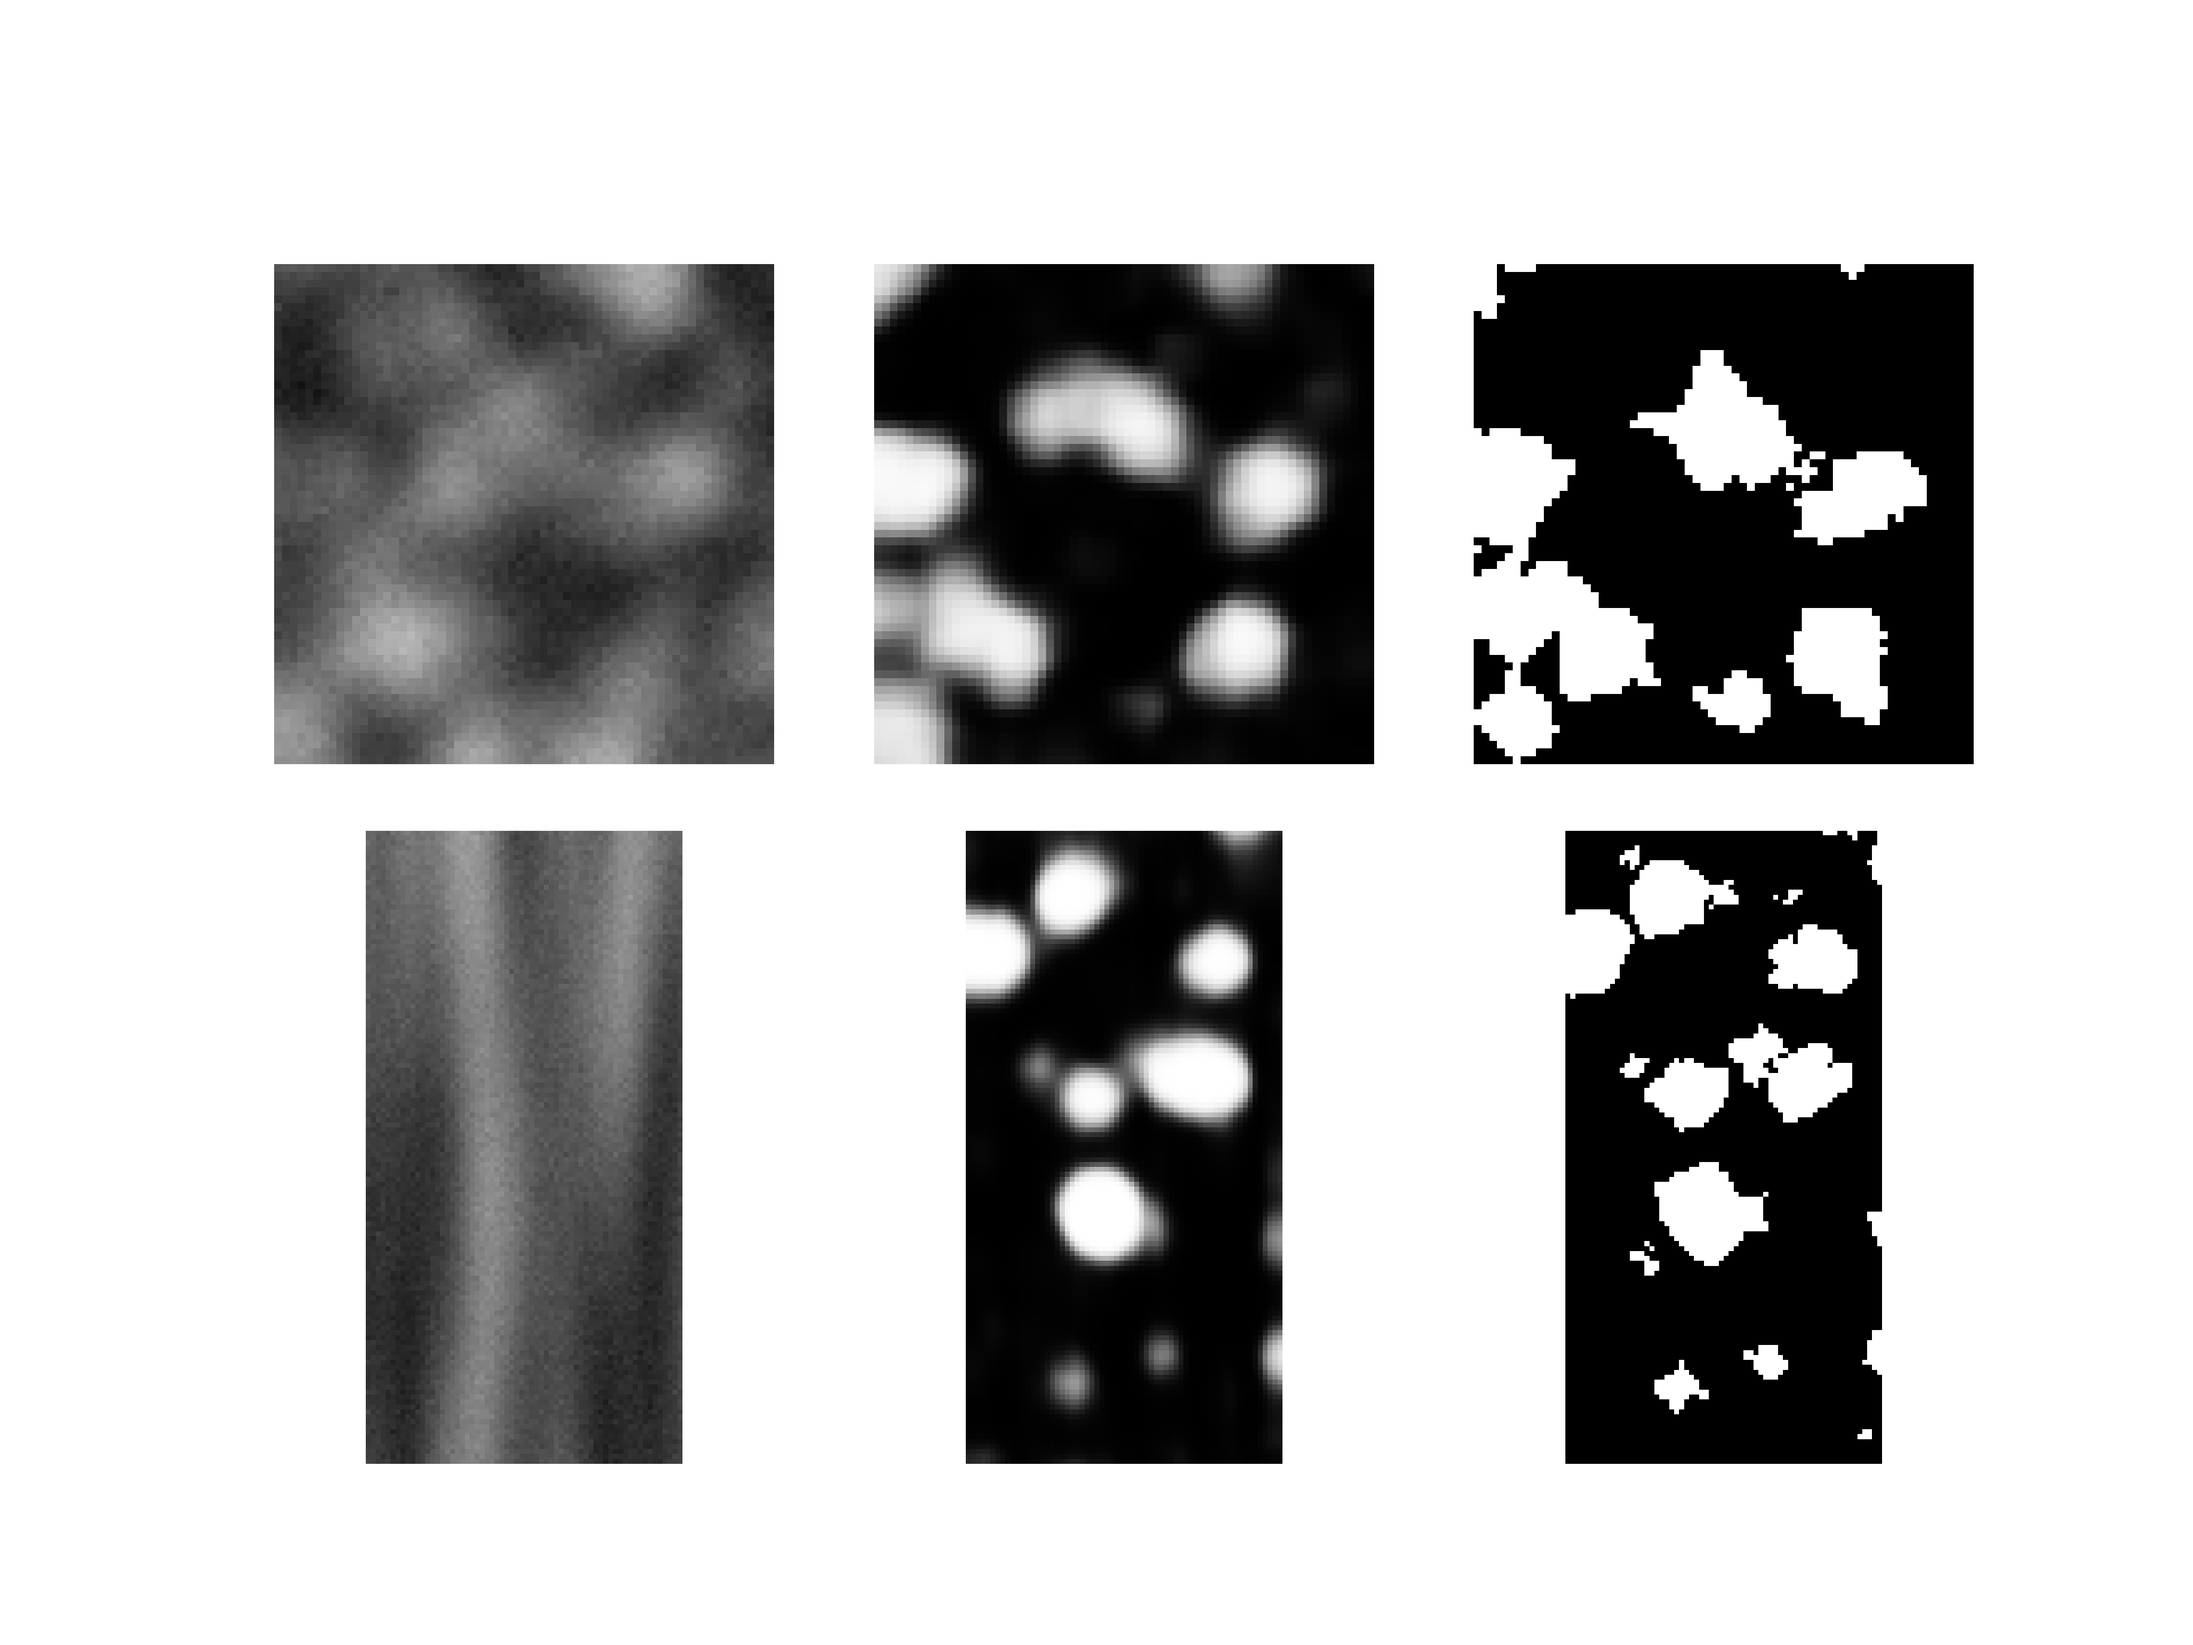
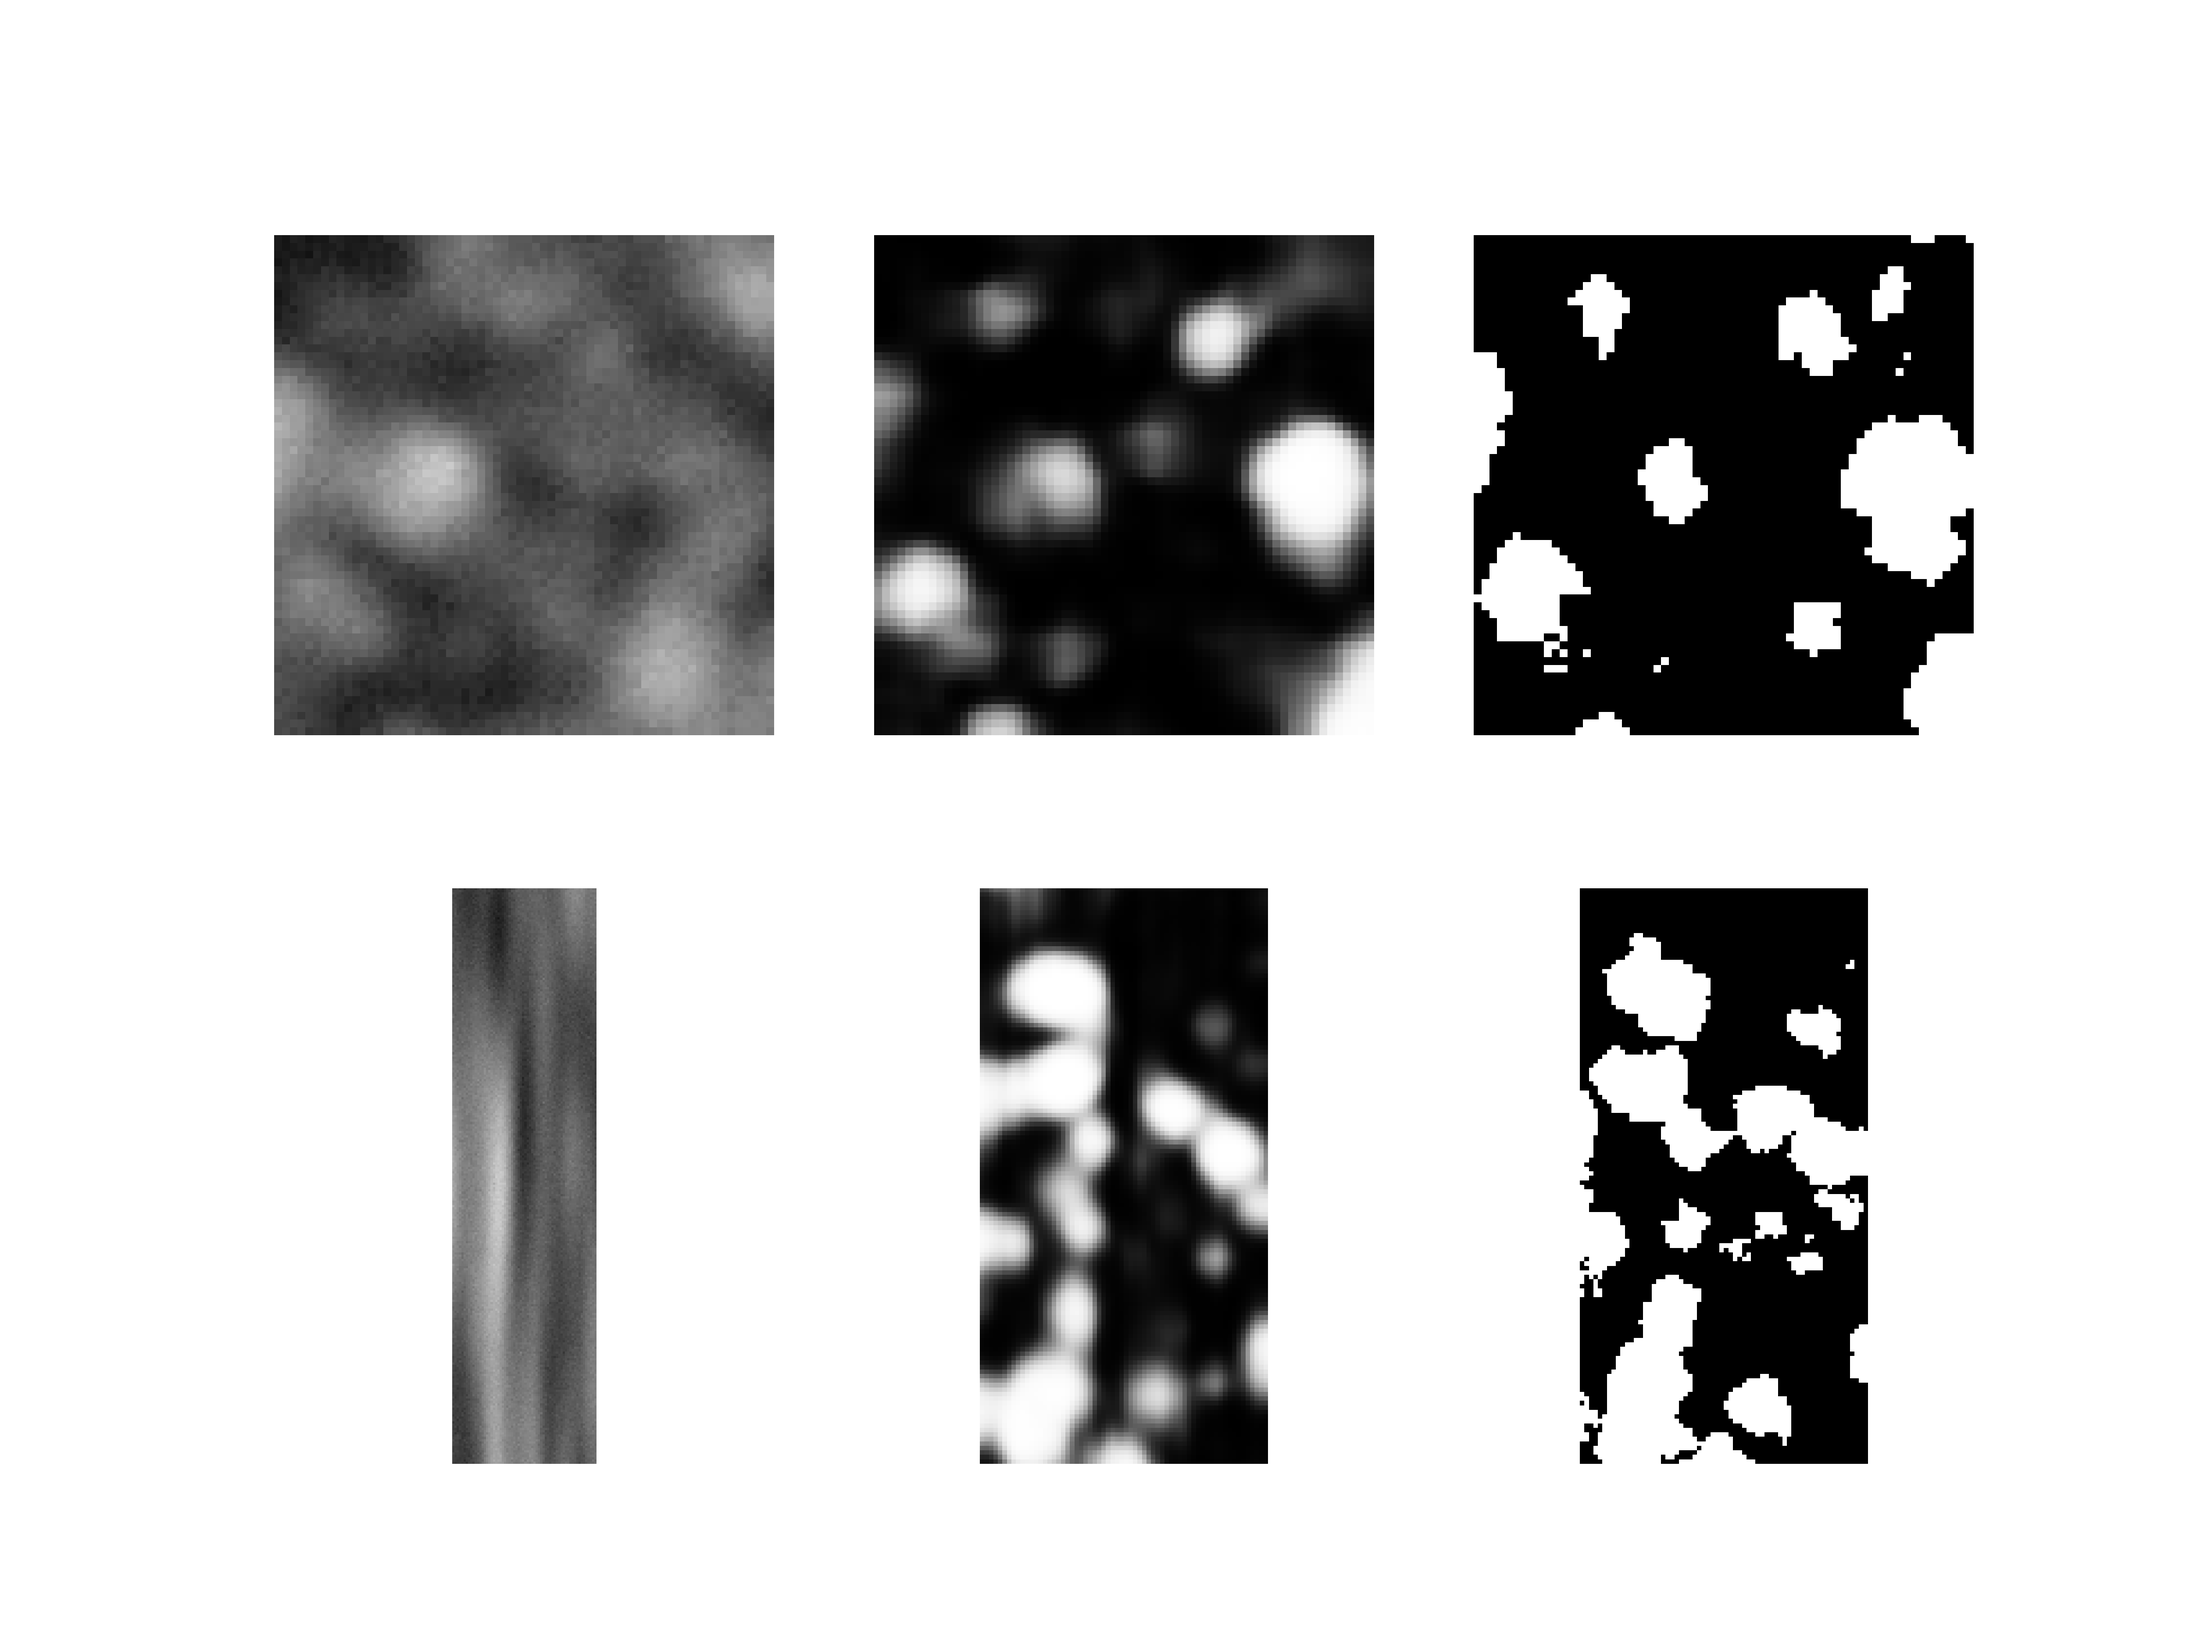
83 fig

diff --git a/inference.py b/inference.py
@@ -50,7 +50,7 @@ JNet = model.JNet(hidden_channels_list  = hidden_channels_list ,
                   superres              = False                ,
                   )
 JNet = JNet.to(device = device)
-j = 30
+j = 60
 i = 30
 scale = 1
 
@@ -80,7 +80,7 @@ for n in range(0,5):
                 cmap='gray', vmin=0.0, vmax=1.0, aspect=1)
         ax3.imshow(label[0, partial[0]+j, :, :].to(device='cpu'),
                 cmap='gray', vmin=0.0, vmax=1.0, aspect=1)
-        ax4.imshow(image[0, partial[0]:partial[1], i, :].to(device='cpu'),
+        ax4.imshow(image[0, :, i, :].to(device='cpu'),
                 cmap='gray', vmin=0.0, vmax=1.0, aspect=scale)
         ax5.imshow(output[0, 0, partial[0]:partial[1], i, :],
                 cmap='gray', vmin=0.0, vmax=1.0, aspect=1)
@@ -92,7 +92,7 @@ for n in range(0,5):
         ax2.imshow(output[0, 0, j, :, :],
                 cmap='gray', vmin=0.0, vmax=1.0, aspect=1)
         ax3.imshow(label[0, j, :, :].to(device='cpu'),
-                cmap='gray', vmin=0.0, vmax=1.0, aspect=1)
+                cmap='gray', vmin=0.0, vmax=1.0, aspect=1, )
         ax4.imshow(image[0, :, i, :].to(device='cpu'),
                 cmap='gray', vmin=0.0, vmax=1.0, aspect=scale)
         ax5.imshow(output[0, 0, partial[0]:partial[1], i, :],
